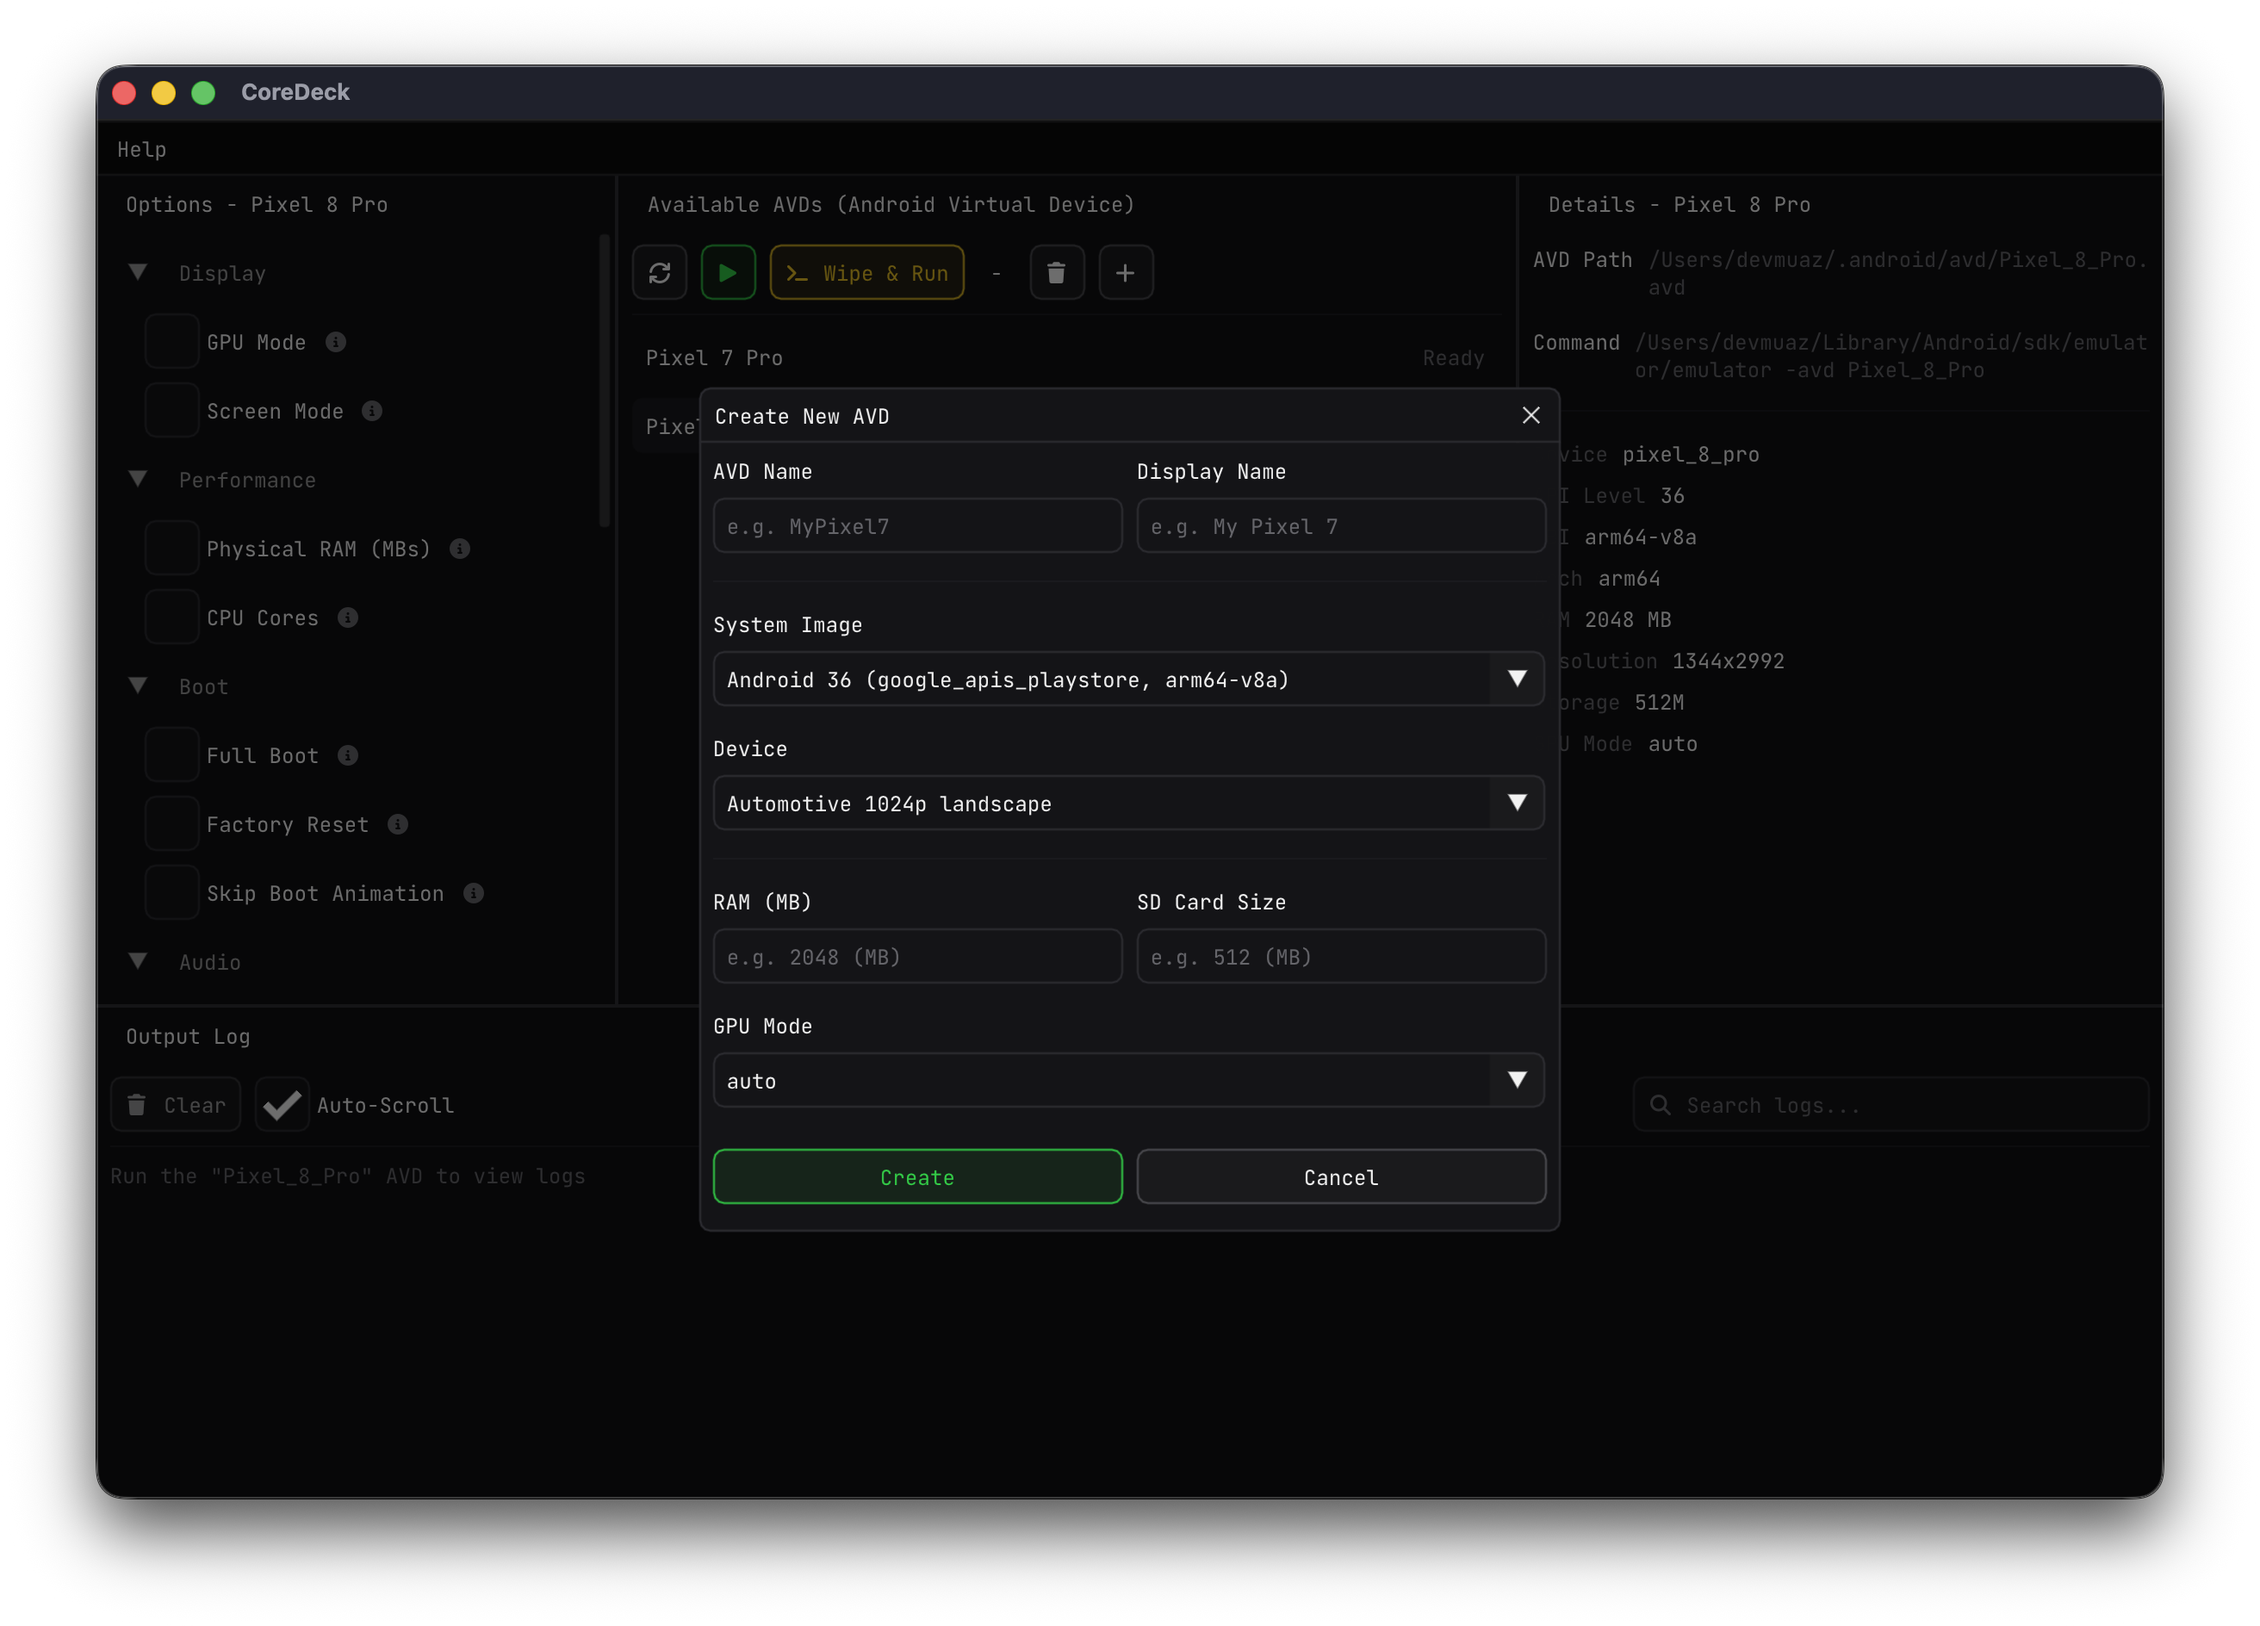
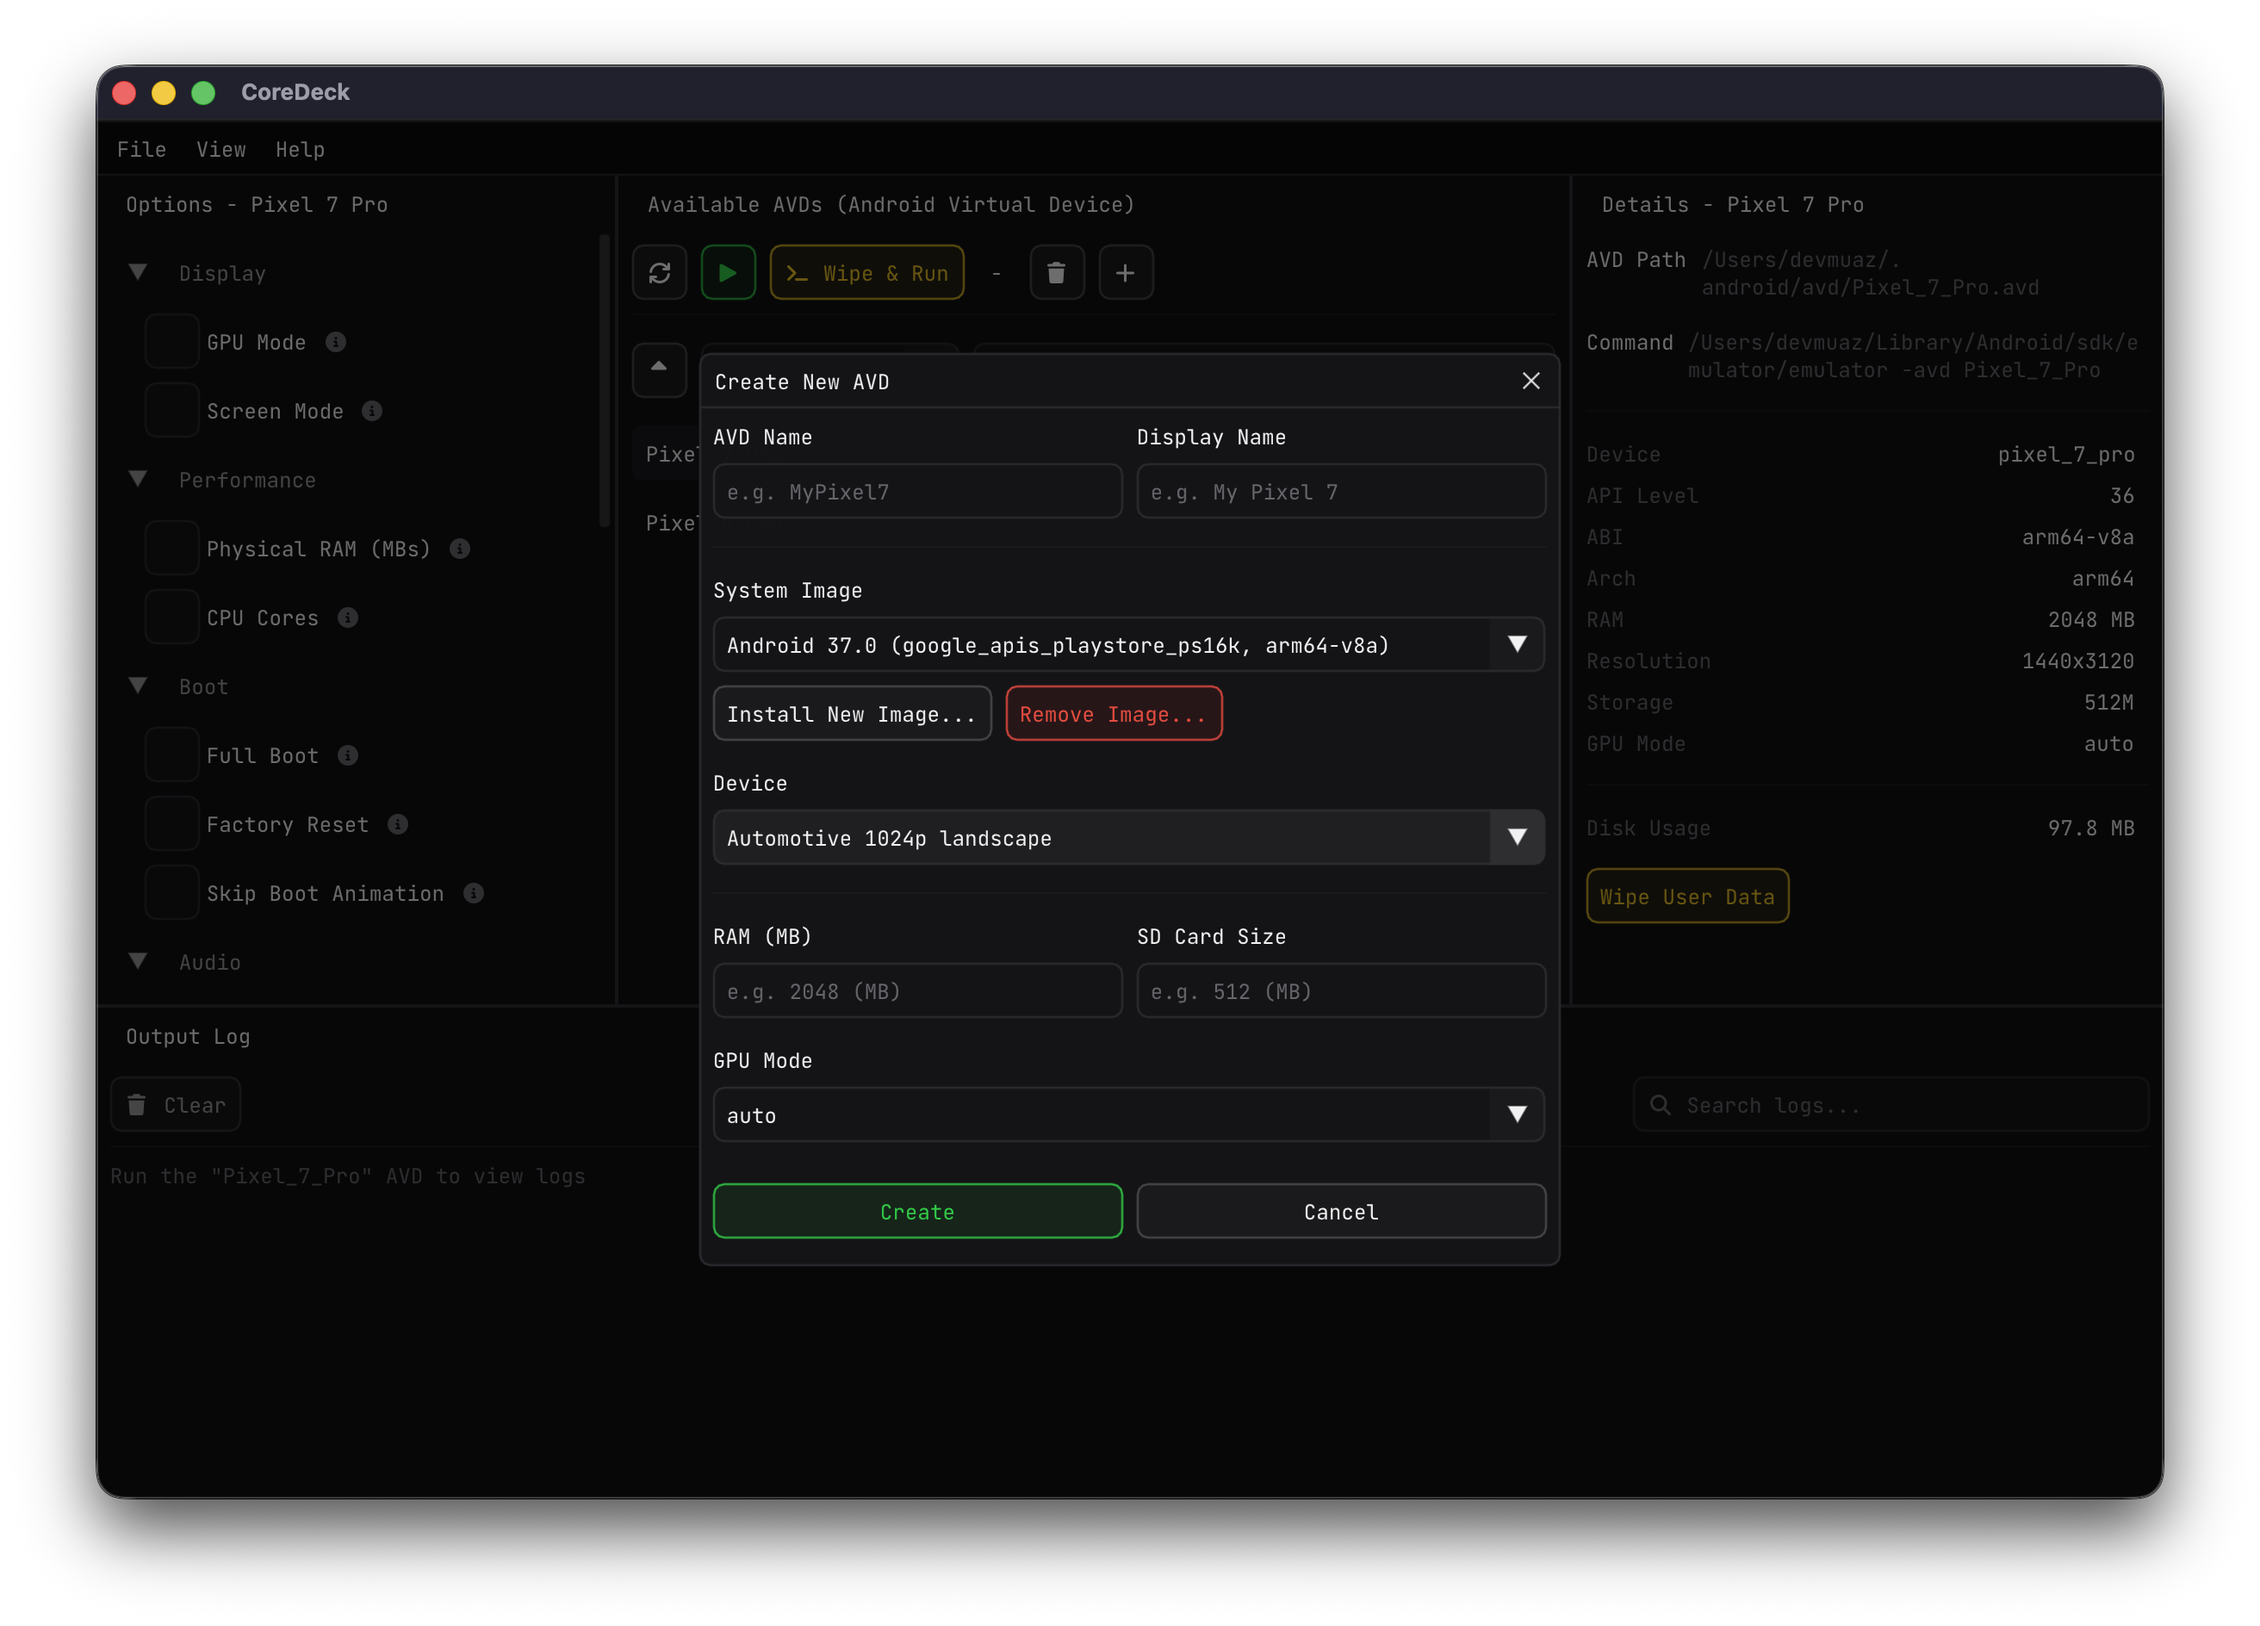
Add CONTRIBUTING.md file, update README.md file, and minor fixes in widgets.cpp

diff --git a/src/gui/widgets.cpp b/src/gui/widgets.cpp
@@ -187,9 +187,10 @@ namespace CoreDeck {
 
     DialogResult SimpleDialog(const DialogData &data) {
         auto result = DialogResult::None;
+        const std::string title = StrConcat(data.title, "###", data.Id);
 
-        if (data.isOpen && !ImGui::IsPopupOpen(data.Id)) {
-            ImGui::OpenPopup(data.Id);
+        if (data.isOpen && !ImGui::IsPopupOpen(title.c_str())) {
+            ImGui::OpenPopup(title.c_str());
         }
 
         const ImVec2 center = ImGui::GetMainViewport()->GetCenter();
@@ -202,15 +203,13 @@ namespace CoreDeck {
                 ImGuiWindowFlags_NoMove |
                 ImGuiWindowFlags_NoDocking;
 
-        if (ImGui::BeginPopupModal(data.Id, data.isBusy ? nullptr : &data.isOpen, flags)) {
+        if (ImGui::BeginPopupModal(title.c_str(), data.isBusy ? nullptr : &data.isOpen, flags)) {
             if (!data.isOpen) {
                 ImGui::CloseCurrentPopup();
                 ImGui::EndPopup();
                 return result;
             }
 
-            ImGui::TextWrapped("%s", data.title);
-            ImGui::Spacing();
             ImGui::PushStyleColor(ImGuiCol_Text, HexColor("#66666B"));
             ImGui::TextWrapped("%s", data.message);
             ImGui::PopStyleColor();

diff --git a/README.md b/README.md
@@ -5,7 +5,13 @@
 [![License](https://img.shields.io/github/license/devmuaz/CoreDeck)](LICENSE)
 [![GitHub release](https://img.shields.io/github/v/release/devmuaz/CoreDeck)](https://github.com/devmuaz/CoreDeck/releases)
 
-A fast, modern desktop app for managing and launching Android emulators — built with C++20 and Dear ImGui.
+A native desktop application around your Android SDK’s official emulator, avdmanager, and sdkmanager binaries — CoreDeck
+runs them for you in one place, through a friendly GUI, so you get the same results without hand-writing commands. Use
+it for everyday work without opening Android Studio. Built with C++20 and Dear ImGui.
+
+> [!IMPORTANT]
+> You still need the Android SDK and its tooling on your machine. Installing Android Studio is the usual way to get
+> them.
 
 **Website:** [coredeck.dev](https://coredeck.dev)
 
@@ -29,10 +35,10 @@ A fast, modern desktop app for managing and launching Android emulators — buil
 | <img src="previews/list-avds.png" alt="AVD List & Options" width="400"/> | <img src="previews/run-selected-avd.png" alt="Running Emulator & Logs" width="400"/> |
 |            *Browse AVDs with per-device options and details*             |                  *Live emulator output with search and auto-scroll*                  |
 
-|                            Create New AVD                             |                            Delete AVD                             |
-|:---------------------------------------------------------------------:|:-----------------------------------------------------------------:|
-| <img src="previews/create-avd.png" alt="Create New AVD" width="400"/> | <img src="previews/delete-avd.png" alt="Delete AVD" width="400"/> |
-|          *Configure system image, device, RAM, and GPU mode*          |          *Confirmation dialog before permanent deletion*          |
+|         Create New AVD & List, Install, Remove System Images          |                              Wipe User Data                              |
+|:---------------------------------------------------------------------:|:------------------------------------------------------------------------:|
+| <img src="previews/create-avd.png" alt="Create New AVD" width="400"/> | <img src="previews/wipe-avd-data.png" alt="Wipe User Data" width="400"/> |
+|          *Configure system image, device, RAM, and GPU mode*          |                    *Clear heavy and unused AVD data*                     |
 
 </div>
 
@@ -60,6 +66,10 @@ If you already cloned without `--recursive`:
 ```bash
 git submodule update --init --recursive
 ```
+
+## Contributing
+
+See [CONTRIBUTING.md](CONTRIBUTING.md) for the branching model, PR guidelines, and how to get started.
 
 ## License
 

diff --git a/CONTRIBUTING.md b/CONTRIBUTING.md
@@ -1,0 +1,78 @@
+# Contributing to CoreDeck
+
+Thanks for your interest in contributing! This guide covers the workflow, branching model, and conventions used in this
+project.
+
+## Branching Model
+
+| Branch    | Purpose                                                   |
+|-----------|-----------------------------------------------------------|
+| `main`    | Stable, release-ready code. Protected — no direct pushes. |
+| `develop` | Active development. All feature work merges here first.   |
+
+```
+feature/* ──> develop ──> main (via PR) ──> tag vX.Y.Z ──> release
+```
+
+## How to Contribute
+
+1. **Fork** the repository and clone it:
+   ```bash
+   git clone --recursive https://github.com/<your-username>/CoreDeck.git
+   ```
+
+2. **Create a branch** off `develop`:
+   ```bash
+   git checkout develop
+   git checkout -b feature/your-feature-name
+   ```
+
+3. **Make your changes**, build, and test locally:
+   ```bash
+   cmake -B build -DCMAKE_BUILD_TYPE=Release
+   cmake --build build --config Release --parallel
+   ```
+
+4. **Commit** with a clear message:
+   ```
+   Add AVD snapshot support
+   ```
+   Keep commits focused — one logical change per commit.
+
+5. **Push** your branch and open a **Pull Request** targeting `develop` (not `main`).
+
+## PR Guidelines
+
+- PRs to `develop` trigger the CI build workflow across Windows, macOS, and Linux
+- Make sure the build passes on all platforms before requesting review
+- Keep PRs focused — avoid mixing unrelated changes
+- Update the [CHANGELOG.md](CHANGELOG.md) if your change is user-facing
+
+## Commit Message Style
+
+Use short, imperative messages that describe what the commit does:
+
+- `Add create AVD dialog with validation`
+- `Fix GCC 13 build errors on Linux`
+- `Refactor emulator options into per-AVD config`
+
+Prefix with `fix:`, `refactor:`, or `chore:` when it helps clarify intent, but it's not required.
+
+## Code Style
+
+- C++20 standard
+- No comments unless the "why" is non-obvious
+- Keep changes minimal — don't refactor unrelated code in the same PR
+
+## Release Process
+
+Releases are handled by maintainers:
+
+1. `develop` is merged into `main` via PR
+2. A version tag (`vX.Y.Z`) is pushed to `main`
+3. The release workflow builds and publishes artifacts for all platforms
+
+## Questions?
+
+Open an [issue](https://github.com/devmuaz/CoreDeck/issues) or start
+a [discussion](https://github.com/devmuaz/CoreDeck/discussions) if you have questions before contributing.
